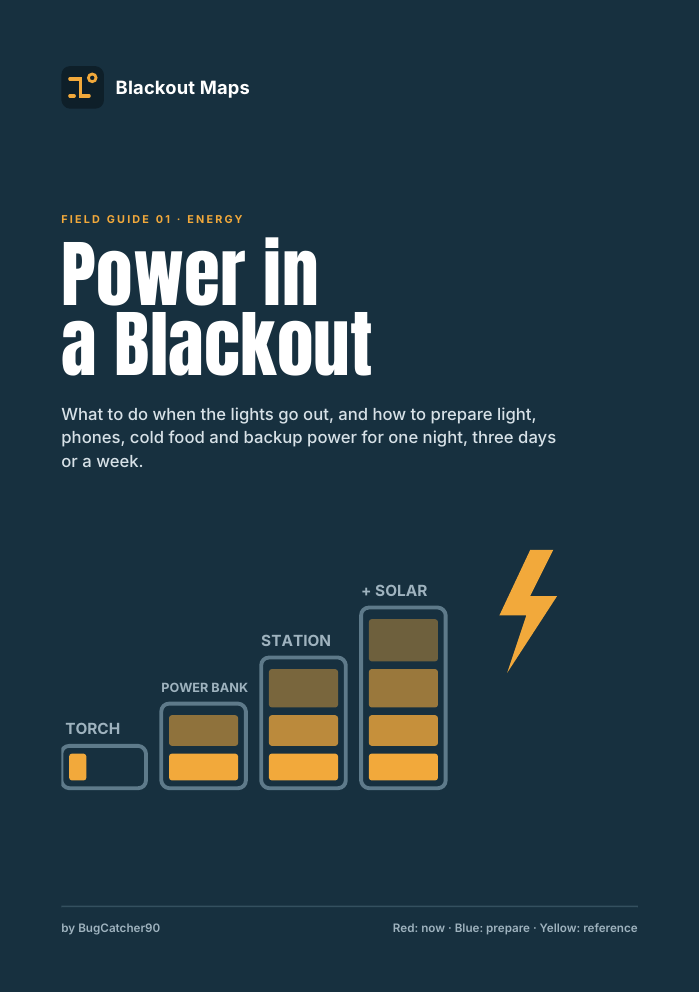
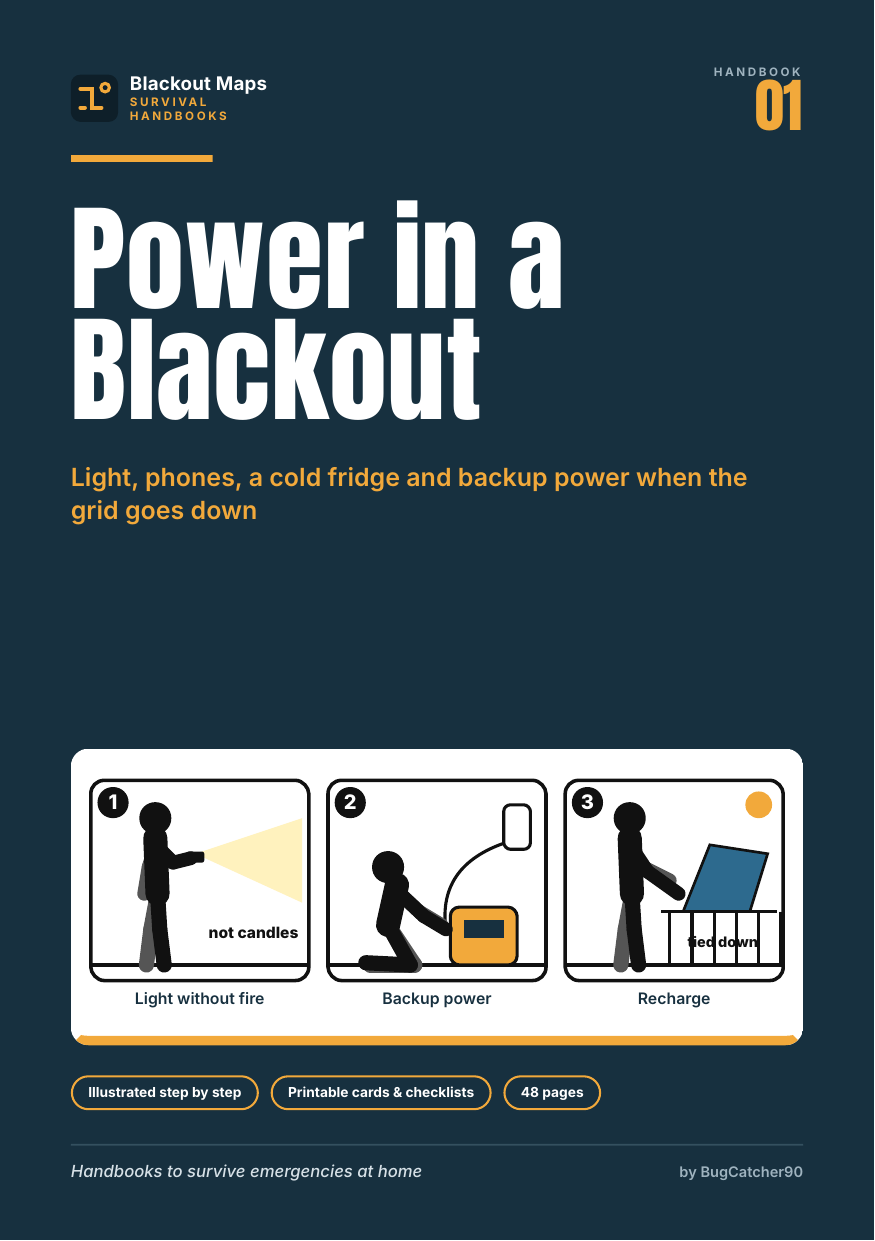
Use the new Power in a Blackout cover.
The replacement PDF is the 48-page handbook edition. Its first page is now the cover and the share image. The file stays private, the same way as the other guides.

diff --git a/website/guides.html b/website/guides.html
@@ -309,7 +309,7 @@
       <p class="shop-deal" data-shop-deal role="status"><span data-offer="15">Any 3 guides: 15% off.</span><span class="shop-deal-gap"> </span><span data-offer="50">The full set: 50% off.</span></p>
       <div class="book-list">
         <article class="book-cell">
-          <a class="book-cover" href="guides/power-in-a-blackout.html"><img src="images/covers/power-in-a-blackout.png" width="700" height="993" alt="Cover of Power in a Blackout"></a>
+          <a class="book-cover" href="guides/power-in-a-blackout.html"><img src="images/covers/power-in-a-blackout.png" width="875" height="1241" alt="Cover of Power in a Blackout"></a>
           <h2><a href="guides/power-in-a-blackout.html">Power in a Blackout</a></h2>
           <p class="book-blurb">Light, phones and a cold fridge through a blackout: what to do in the first ten minutes, and how to size a power bank, station or generator for your home.</p>
           <a class="book-more" href="guides/power-in-a-blackout.html">Read the full description <span aria-hidden="true">↗</span></a>

diff --git a/website/index.html b/website/index.html
@@ -457,7 +457,7 @@
       <p class="lead">Guidebooks for emergency situations and prepping for all survivor topics.</p>
       <div class="book-row">
         <a class="book-cell" href="guides/power-in-a-blackout.html">
-          <img src="images/covers/power-in-a-blackout.png" width="700" height="993" alt="Cover of Power in a Blackout">
+          <img src="images/covers/power-in-a-blackout.png" width="875" height="1241" alt="Cover of Power in a Blackout">
           <h3>Power in a Blackout</h3>
           <p>Light, phones and a cold fridge through a blackout: what to do in the first ten minutes, and how to size a power bank, station or generator for your home.</p>
         </a>

diff --git a/website/guides/power-in-a-blackout.html b/website/guides/power-in-a-blackout.html
@@ -103,7 +103,7 @@
   <main>
     <section class="band book-page">
       <article class="guide-book">
-        <img src="/images/covers/power-in-a-blackout.png" width="700" height="993" alt="Cover of Power in a Blackout">
+        <img src="/images/covers/power-in-a-blackout.png" width="875" height="1241" alt="Cover of Power in a Blackout">
         <div>
           <h1>Power in a Blackout</h1>
           <p class="guide-meta">48-page PDF</p>
